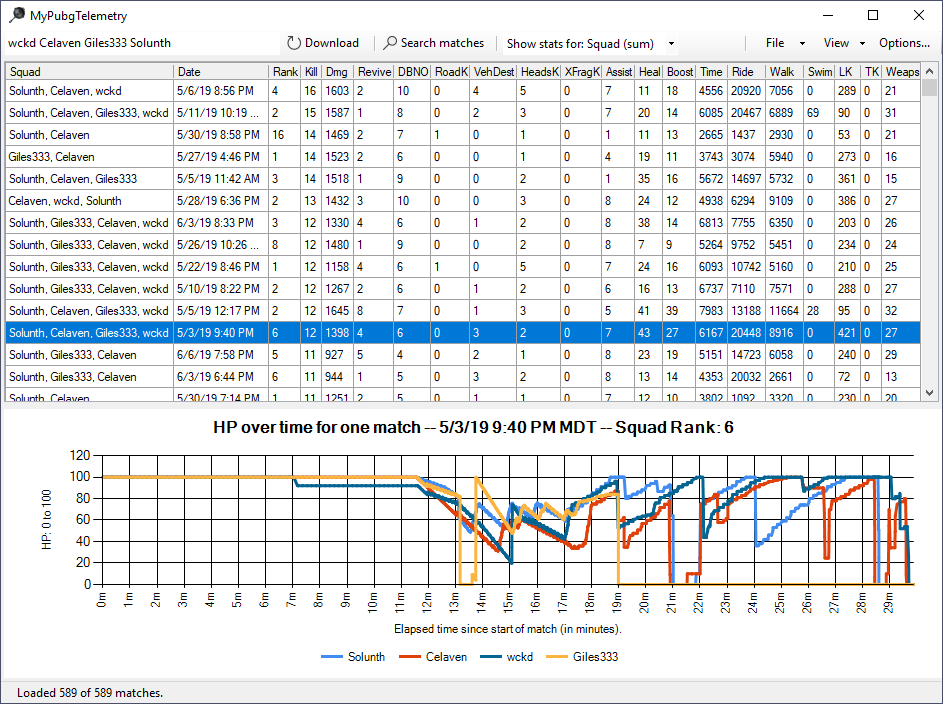
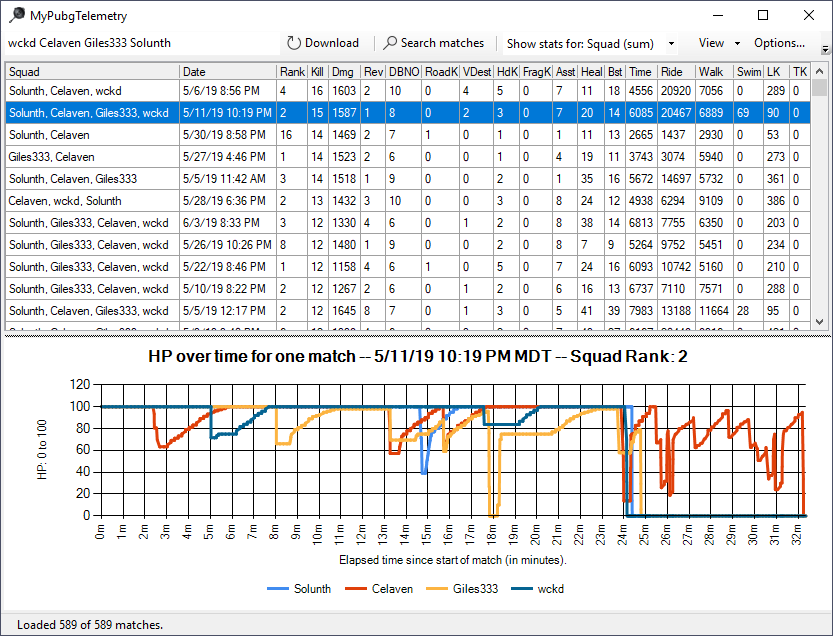
updated screenshot

diff --git a/TelemetryGUI/MainForm.cs b/TelemetryGUI/MainForm.cs
@@ -239,7 +239,7 @@ namespace MyPubgTelemetry.GUI
             var ignore = new HashSet<string>
             {
                 "DeathType", "KillPointsDelta", "KillPoints", "KillStreaks", "LastKillPoints", "Name", "PlayerId", "MostDamage", "RankPoints", "WinPoints",
-                "WinPointsDelta", "TeamId", "LastWinPoints", "WinPlace", "KillPlace"
+                "WinPointsDelta", "TeamId", "LastWinPoints", "WinPlace", "KillPlace", "WeaponsAcquired"
             };
 
             Type pt = pi.PropertyType;
@@ -259,13 +259,16 @@ namespace MyPubgTelemetry.GUI
             {
                 {"DamageDealt", "Dmg"},
                 {"RoadKill", "RoadK"},
-                {"HeadshotKill", "HeadsK"},
-                {"VehicleDestroy", "VehDest"},
+                {"HeadshotKill", "HdK"},
+                {"VehicleDestroy", "VDest"},
                 {"TeamKill", "TK"},
+                {"Boost", "Bst"},
+                {"Revive", "Rev"},
                 {"LongestKill", "LK"},
-                {"WeaponsAcquired", "Weaps"},
-                {"XFragKill", "XFragK"},
+                {"WeaponsAcquired", "Weap"},
+                {"XFragKill", "FragK"},
                 {"TimeSurvived", "Time"},
+                {"Assist", "Asst"},
             };
 
             displayName = rename.GetValueOrDefault(displayName, displayName);
@@ -286,7 +289,7 @@ namespace MyPubgTelemetry.GUI
             col.ToolTipText = dataName;
             if (dataName.StartsWith("X"))
             {
-                col.ToolTipText += "\nNote: X* stats must be calculated from telemetry,\nwhich is not implemented yet. Stay tuned.";
+                col.ToolTipText += "\nNote: This stat must be calculated from telemetry,\nwhich is not implemented yet. Stay tuned.";
             }
             col.Frozen = false;
             if (format != null)
@@ -1211,7 +1214,7 @@ namespace MyPubgTelemetry.GUI
                 object propertyStore = fi_DataGridViewCellStyle_propertyStore?.GetValue(cellStyle);
                 Type t_PropertyStore = propertyStore?.GetType();
                 MethodInfo mi_PropertyStore_SetPadding = t_PropertyStore?.GetMethod("SetPadding");
-                Padding padding = new Padding(-2, 0, -2, 0);
+                Padding padding = new Padding(-3, 0, -2, 0);
                 mi_PropertyStore_SetPadding?.Invoke(propertyStore, new object[] { propId, padding });
                 Padding gp = cellStyle.Padding;
                 Debug.WriteLine($"{gp.Left} {gp.Right} {gp.Top} {gp.Bottom}");
